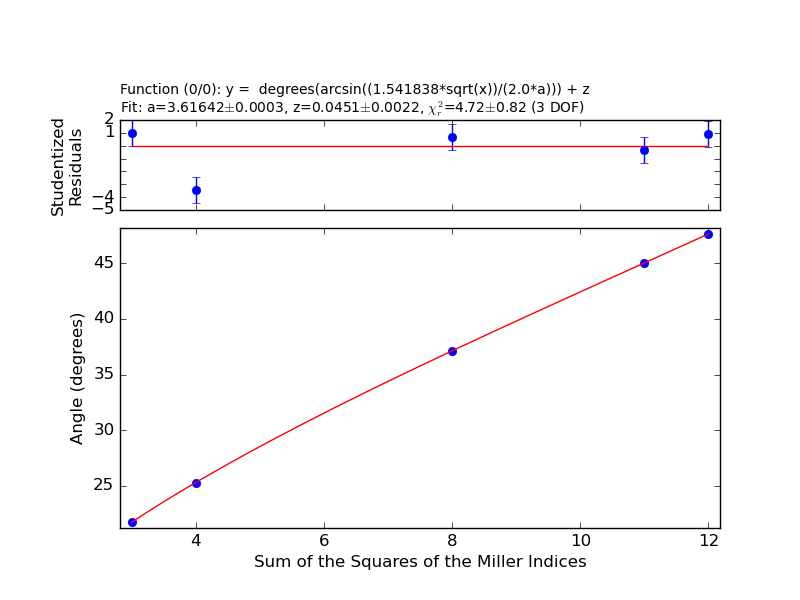
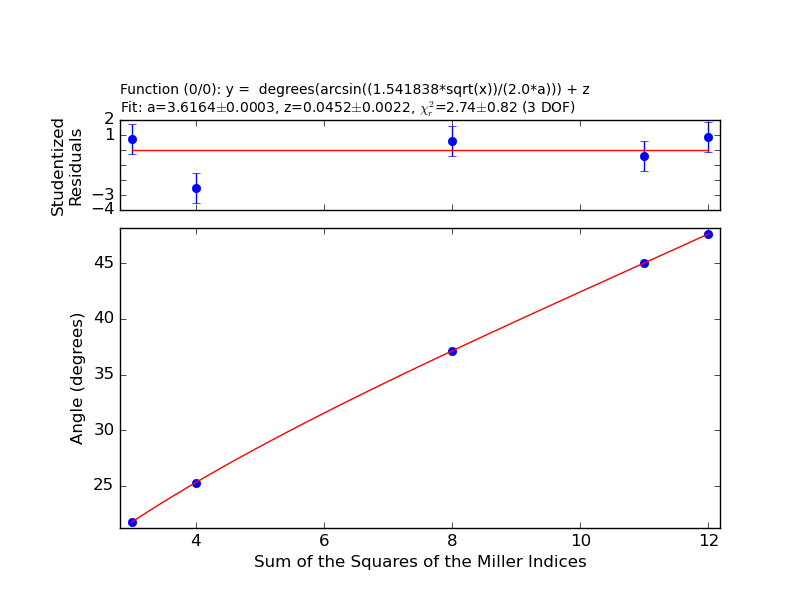
Update

diff --git a/Data/Initial/peak_Fitting2.py b/Data/Initial/peak_Fitting2.py
@@ -13,8 +13,8 @@ import numpy as np
 
 
 
-file  = open("Cu_03-09-20.uxd", "r") 
-#file  = open("Ni_03-09-20.uxd", "r") 
+#file  = open("Cu_03-09-20.uxd", "r") 
+file  = open("Ni_03-09-20.uxd", "r") 
 
 #file  = open("Cu25Ni75.uxd", "r") 
 #file  = open("Cu50Ni50.uxd", "r") 
@@ -63,7 +63,7 @@ f=s.data.fitter(plot_guess= False)
 f.set_functions('a * (0.5*g)/((x-2.0*b)**2 + (0.5*g)**2) + c*exp(-(x-2.0*b)**2/(2*g**2)) + z','a = 50, b=21.7, g = 0.14, c = 800, z=12')
 #Gaussian Function with guessed value for parameter a,b,c,d, and e 
 #f.set_functions('(a/(c * sqrt(2 * pi)))* exp(-0.5* (x - b)2/(c2)) + d(-0.043x + 20.35 - 1.36*erf(x-b))','a=1873, b=276.8, c=13.8 , d=2.0')
-#f.set_data(x,y, np.sqrt(y))
-f.set_data(x_short,y_short, np.sqrt(y_short))
+f.set_data(x,y, np.sqrt(y))
+#f.set_data(x_short,y_short, np.sqrt(y_short))
 values = f.get_fit_values()
 f.fit()

diff --git a/Data/Initial/latticeParameter_Fit.py b/Data/Initial/latticeParameter_Fit.py
@@ -14,7 +14,7 @@ import spinmob as s
 #angle_errors = np.array([0.0007, 0.002, 0.004, 0.007])#From fitting the peak positions
 
 #Copper, Voight
-angles = np.array([21.7136, 25.277, 37.128, 45.036, 47.651])
+angles = np.array([21.7136, 25.276, 37.128, 45.036, 47.651])
 angle_errors = np.array([0.0007, 0.002, 0.003, 0.004, 0.007])
 
 
